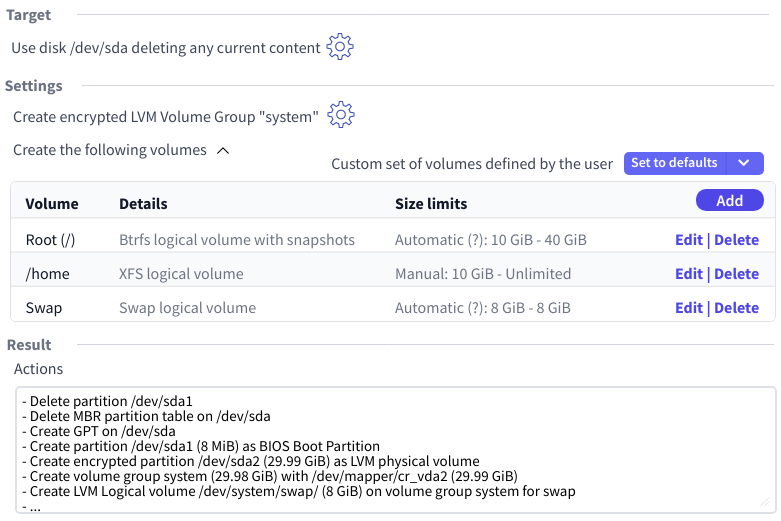
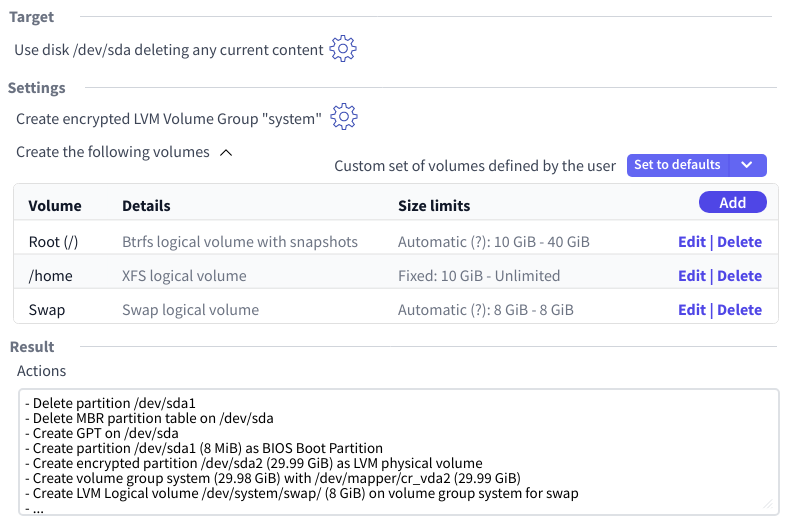
Improvements in doc/storage_ui.md

diff --git a/doc/storage_ui.md b/doc/storage_ui.md
@@ -30,7 +30,7 @@ YaST behaviors.
 
 YaST's `GuidedProposal` contains a subcomponent called `SpaceMaker` which takes cares of deleting
 and resizing existing partitions to make space for the new system. It decides by itself which
-partitions to should be affected following a logic that, even though is configurable in the control
+partitions should be affected following a logic that, even though is configurable in the control
 file and by the UI, is hard to follow for many end users.
 
 The proposal described in this document would not rely on that logic. Instead, D-Installer would
@@ -124,21 +124,10 @@ would be displayed as a pop-up and every confirmed change in the list will cause
 the result at the bottom.
 
 The size of each volume is specified as a couple of lower and upper limits (the upper one is
-optional in all cases). With the current approach of the YaST `GuidedProposal` there some cases in
-which the lower and upper limits can be adjusted based on the following aspects:
-
-- Whether snapshots are activated for the root volume
-- Whether the size of the volume must be influenced by the RAM size (used for suspend in the case
-  of swap and for Kdump in the case of the root volume)
-- Whether the given volume is marked as "fallback" for another one (eg. if the separate /home is
-  disabled then the upper limit of the root one dissapears)
-
-To make that possible, the size limits of the volumes that are affected by one or several of those
-circumstances will be set as "automatic" by default. If that's the case, a tool-tip will be
-available next to each set of limits to explain the rationale of the current values.
-
-**NOTE:** the alternative to "automatic" shouldn't be "manual" but "fixed". I have to update the
-mock-up.
+optional in all cases). With the current approach of the YaST `GuidedProposal` there are some
+volumes that may need to recalculate those limits based on its configuration or its relationship
+with others volumes. Their limits will be set as "automatic" by default. For more details,
+see the corresponding section below.
 
 Apart from the size limits, the add/edit form for a given volume would allow to configure other
 aspects like the file-system type or the usage of snapshots and subvolumes.
@@ -151,3 +140,73 @@ actions allow to:
 - Reset the list to the default volumes using their recommended sizes (i.e. desired) as lower limit
 - Same action but using the minimum sizes (i.e. min) as lower limit
 
+The proposed workflow and interface should cover most of the basic use-cases, although further
+improvements may be needed to accomodate scenarios like re-installing the system in a similar way to
+the option "Import Mount Points" from the YaST Partitioner.
+
+## Automatic Size Limits
+
+Currently there are cases in which the lower and upper limits of a given volume are adjusted for
+the `GuidedProposal` based on the following aspects:
+
+- Whether snapshots are activated for the root volume
+- Whether the size of the volume must be influenced by the RAM size (used for suspend in the case
+  of swap and for Kdump in the case of the root volume)
+- Whether the given volume is marked as "fallback" for another one (eg. if the separate /home is
+  disabled then the upper limit of the root one dissapears)
+
+To make that possible, the size limits of the volumes that are affected by one or several of those
+circumstances will be set as "automatic" by default. If that's the case, a tool-tip will be
+available next to each set of limits to explain the rationale of the current values.
+
+Let's consider the following example in which some volumes are configured like this in the control
+file of the product/role being installed:
+
+```xml
+<volumes>
+  <volume>
+    <mount_point>/</mount_point>
+    <desired_size>5 GiB</desired_size>
+    <max_size>10 GiB</max_size>
+    <!-- Sizes are multiplied by 4 if snapshots are configured -->
+    <snapshots_percentage>300</snapshots_percentage>
+    ...
+  </volume>
+  <volume>
+    <mount_point>/home</mount_point>
+    <desired_size>10 GiB</desired_size>
+    <max_size>unlimited</max_size>
+    <!-- if this volume is disabled we want "/" to increase -->
+    <fallback_for_desired_size>/</fallback_for_desired_size>
+    <fallback_for_max_size>/</fallback_for_max_size>
+    ...
+  </volume>
+  ...
+</volumes>
+```
+
+The list could start with something like this.
+
+![Automatic Sizes Example Step 1](img/automatic_size_example1.png)
+
+The reason for the "automatic" value would be explained to the user via a tool-tip (or similar
+mechanism) with a text similar to this (very crude wording, to be refined):
+
+```
+These limits are affected by::
+  - The configuration of snapshots
+  - The presence of a separate /home volume
+```
+
+As a consequence of all that, if the user deletes the /home volume then the new list would be (note
+the change in the automatic size limits of the root volume).
+
+![Automatic Sizes Example Step 2](img/automatic_size_example2.png)
+
+If, on top of that, the user also disables snapshots the new resulting list would be.
+
+![Automatic Sizes Example Step 3](img/automatic_size_example3.png)
+
+Of course, at any point in time the user could modify the root volume and switch to fixed limits. In
+that case, the entered values would be observed and would not be automatically recalculated anymore,
+despite any configuration in the control file.
